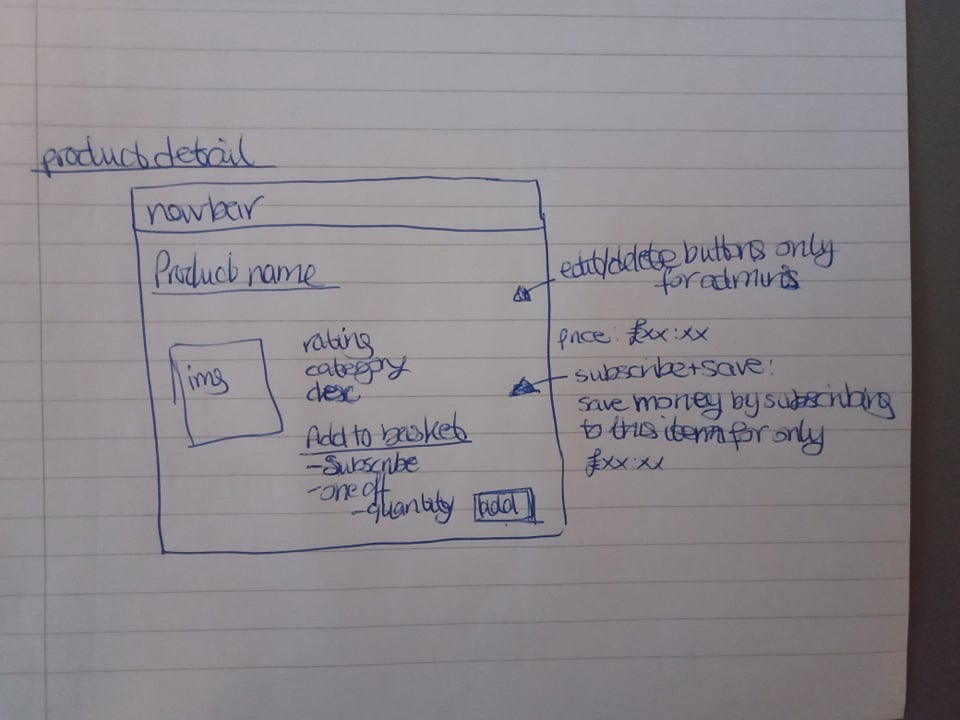
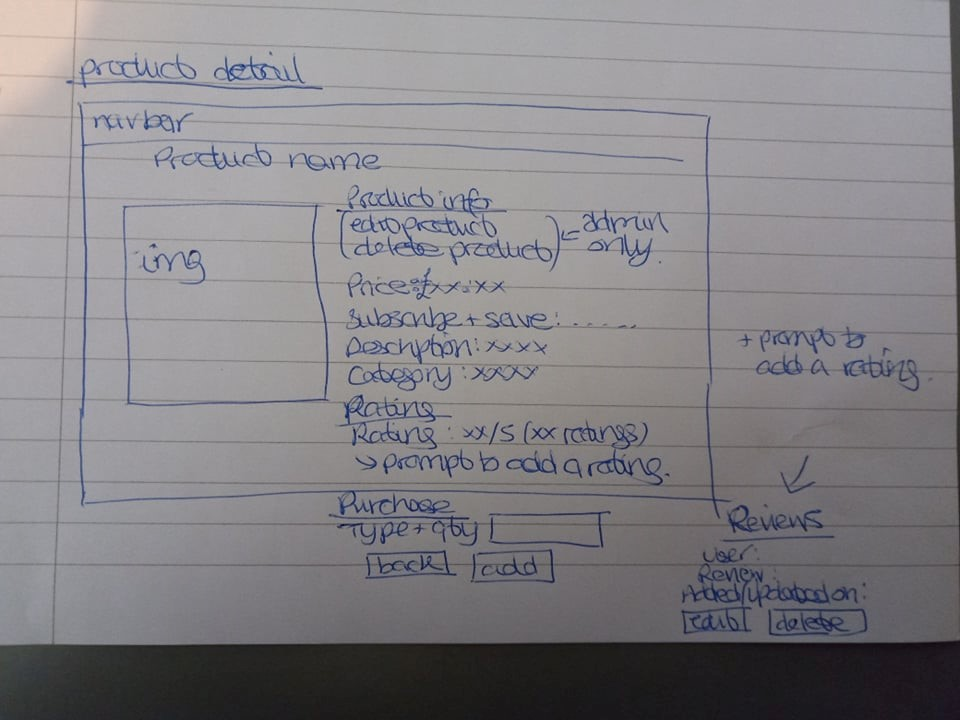
Updated wireframes and skeleton in readme

diff --git a/README.md b/README.md
@@ -28,9 +28,14 @@ It is aimed for those who are interested in purchasing any of the above, the sit
    * [Wireframes Product Detail](#wireframes-product-detail)
    * [Wireframes Bag](#wireframes-bag)
    * [Wireframes Checkout](#wireframes-checkout)
+   * [Whireframes Checkout Success](#wireframes-checkout-success)
    * [Wireframes Profile](#wireframes-profile)
    * [Wireframes Add Product](#wireframes-add-product)
    * [Wireframes Edit Product](#wireframes-edit-product)
+   * [Wireframes Add Review](#wireframes-add-review)
+   * [Wireframes Edit Review](#wireframes-edit-review)
+   * [Wireframes Add Rating](#wireframes-add-rating)
+   * [Wireframes Edit Rating](#wireframes-edit-rating)
    * [Wireframes Comments](#wireframes-comments)
   * [Surface](#surface)
     * [Colours](#colours)
@@ -143,6 +148,14 @@ Key features to be included based on user stories are:
 
 * The edit product page will be similar to the add procut page and will be available to admin only, the only difference is that this will auto populate with the products current information and allow the admin to update any details.
 
+* The add review page will allow logged in users to add a review of a product.
+
+* The edit review page will allow logged in users to edit one of thier existing reviews.
+
+* The add rating page will allow logged in users to add a rating of a product.
+
+* The edit rating page will allow logged in users to edit one of thier existing ratings.
+
 ### Structure
 
 All pages of the website will have a consistent navigation bar. The home, login and register links will be available to users who aren't yet registered and/or logged into the site. All users regardless or registration or login status will be able to view all products, view product detail pages, add products to their shopping basket, view the basket  and make a purchase. Logged in users and admin (superusers) will be able to view their profile and also logout. Admin (superusers) will be able to edit and delete products. Below the navbar there will also be a header with links to view all products (by price, rating or category) or one of the 4 main categories of products (chocolate, hot chocolate, tea and coffee), under these 4 main categories there will be subgategories as follows: Chocolate (white, milk, dark and all), hot chocolate (classic, nutty, other, all), tea (black, white, other, all) and coffee (dark roast, light roast, medium roast, all). This header will also be displayed on all pages of the site.
@@ -173,9 +186,17 @@ The website will use Materializecss grids to make the layout responsive to diffe
 
 * The edit product page will be similar to the add procut page and will be available to admin only, the only difference is that this will auto populate with the products current information and allow the admin to update any details.
 
+* The add review page will allow logged in users to add a review of a product. If a user has already reviewed this product they will be informed and prompted to edit their existing review.
+
+* The edit review page will allow logged in users to edit one of thier existing reviews.
+
+* The add rating page will allow logged in users to add a rating of a product (options 1 through 5). If a user has already rated this product they will be informed and prompted to edit their rated review. This data will feed into the products model rating, totalrating and numberofratings variables.
+
+* The edit rating page will allow logged in users to edit one of thier existing ratings. This data will feed into the products model rating, totalrating and numberofratings variables.
+
 ### Skeleton
 
-I used pen and paper to make the wireframes for this project. The website was designed to have 11 pages - Home, Login, Register, Logout, Products, Product detail, Bag, Checkout, Profile, Add product (admin only) and Edit product (admin only). 
+I used pen and paper to make the wireframes for this project. The website was designed to have 16 pages - Home, Login, Register, Logout, Products, Product detail, Bag, Checkout, Checkout success, Profile, Add product (admin only), Edit product (admin only), Add review, Edit review, Add rating and Edit rating. 
 
 #### Wireframes Navbar
 
@@ -225,9 +246,25 @@ I used pen and paper to make the wireframes for this project. The website was de
 
 ![Add Product Wireframes](static/wireframes/add_product.jpg)  
 
-#### Wireframes Edit
+#### Wireframes Edit Product
 
 ![Edit Product Wireframes](static/wireframes/edit_product.jpg)  
+
+#### Wireframes Add Review 
+
+![Add Review Wireframes](static/wireframes/add_review.jpg)  
+
+#### Wireframes Edit Review
+
+![Edit Review Wireframes](static/wireframes/edit_review.jpg)  
+
+#### Wireframes Add Product 
+
+![Add Rating Wireframes](static/wireframes/add_rating.jpg)  
+
+#### Wireframes Edit Product
+
+![Edit Rating Wireframes](static/wireframes/edit_rating.jpg)  
 
 #### Wireframes Comments
 
